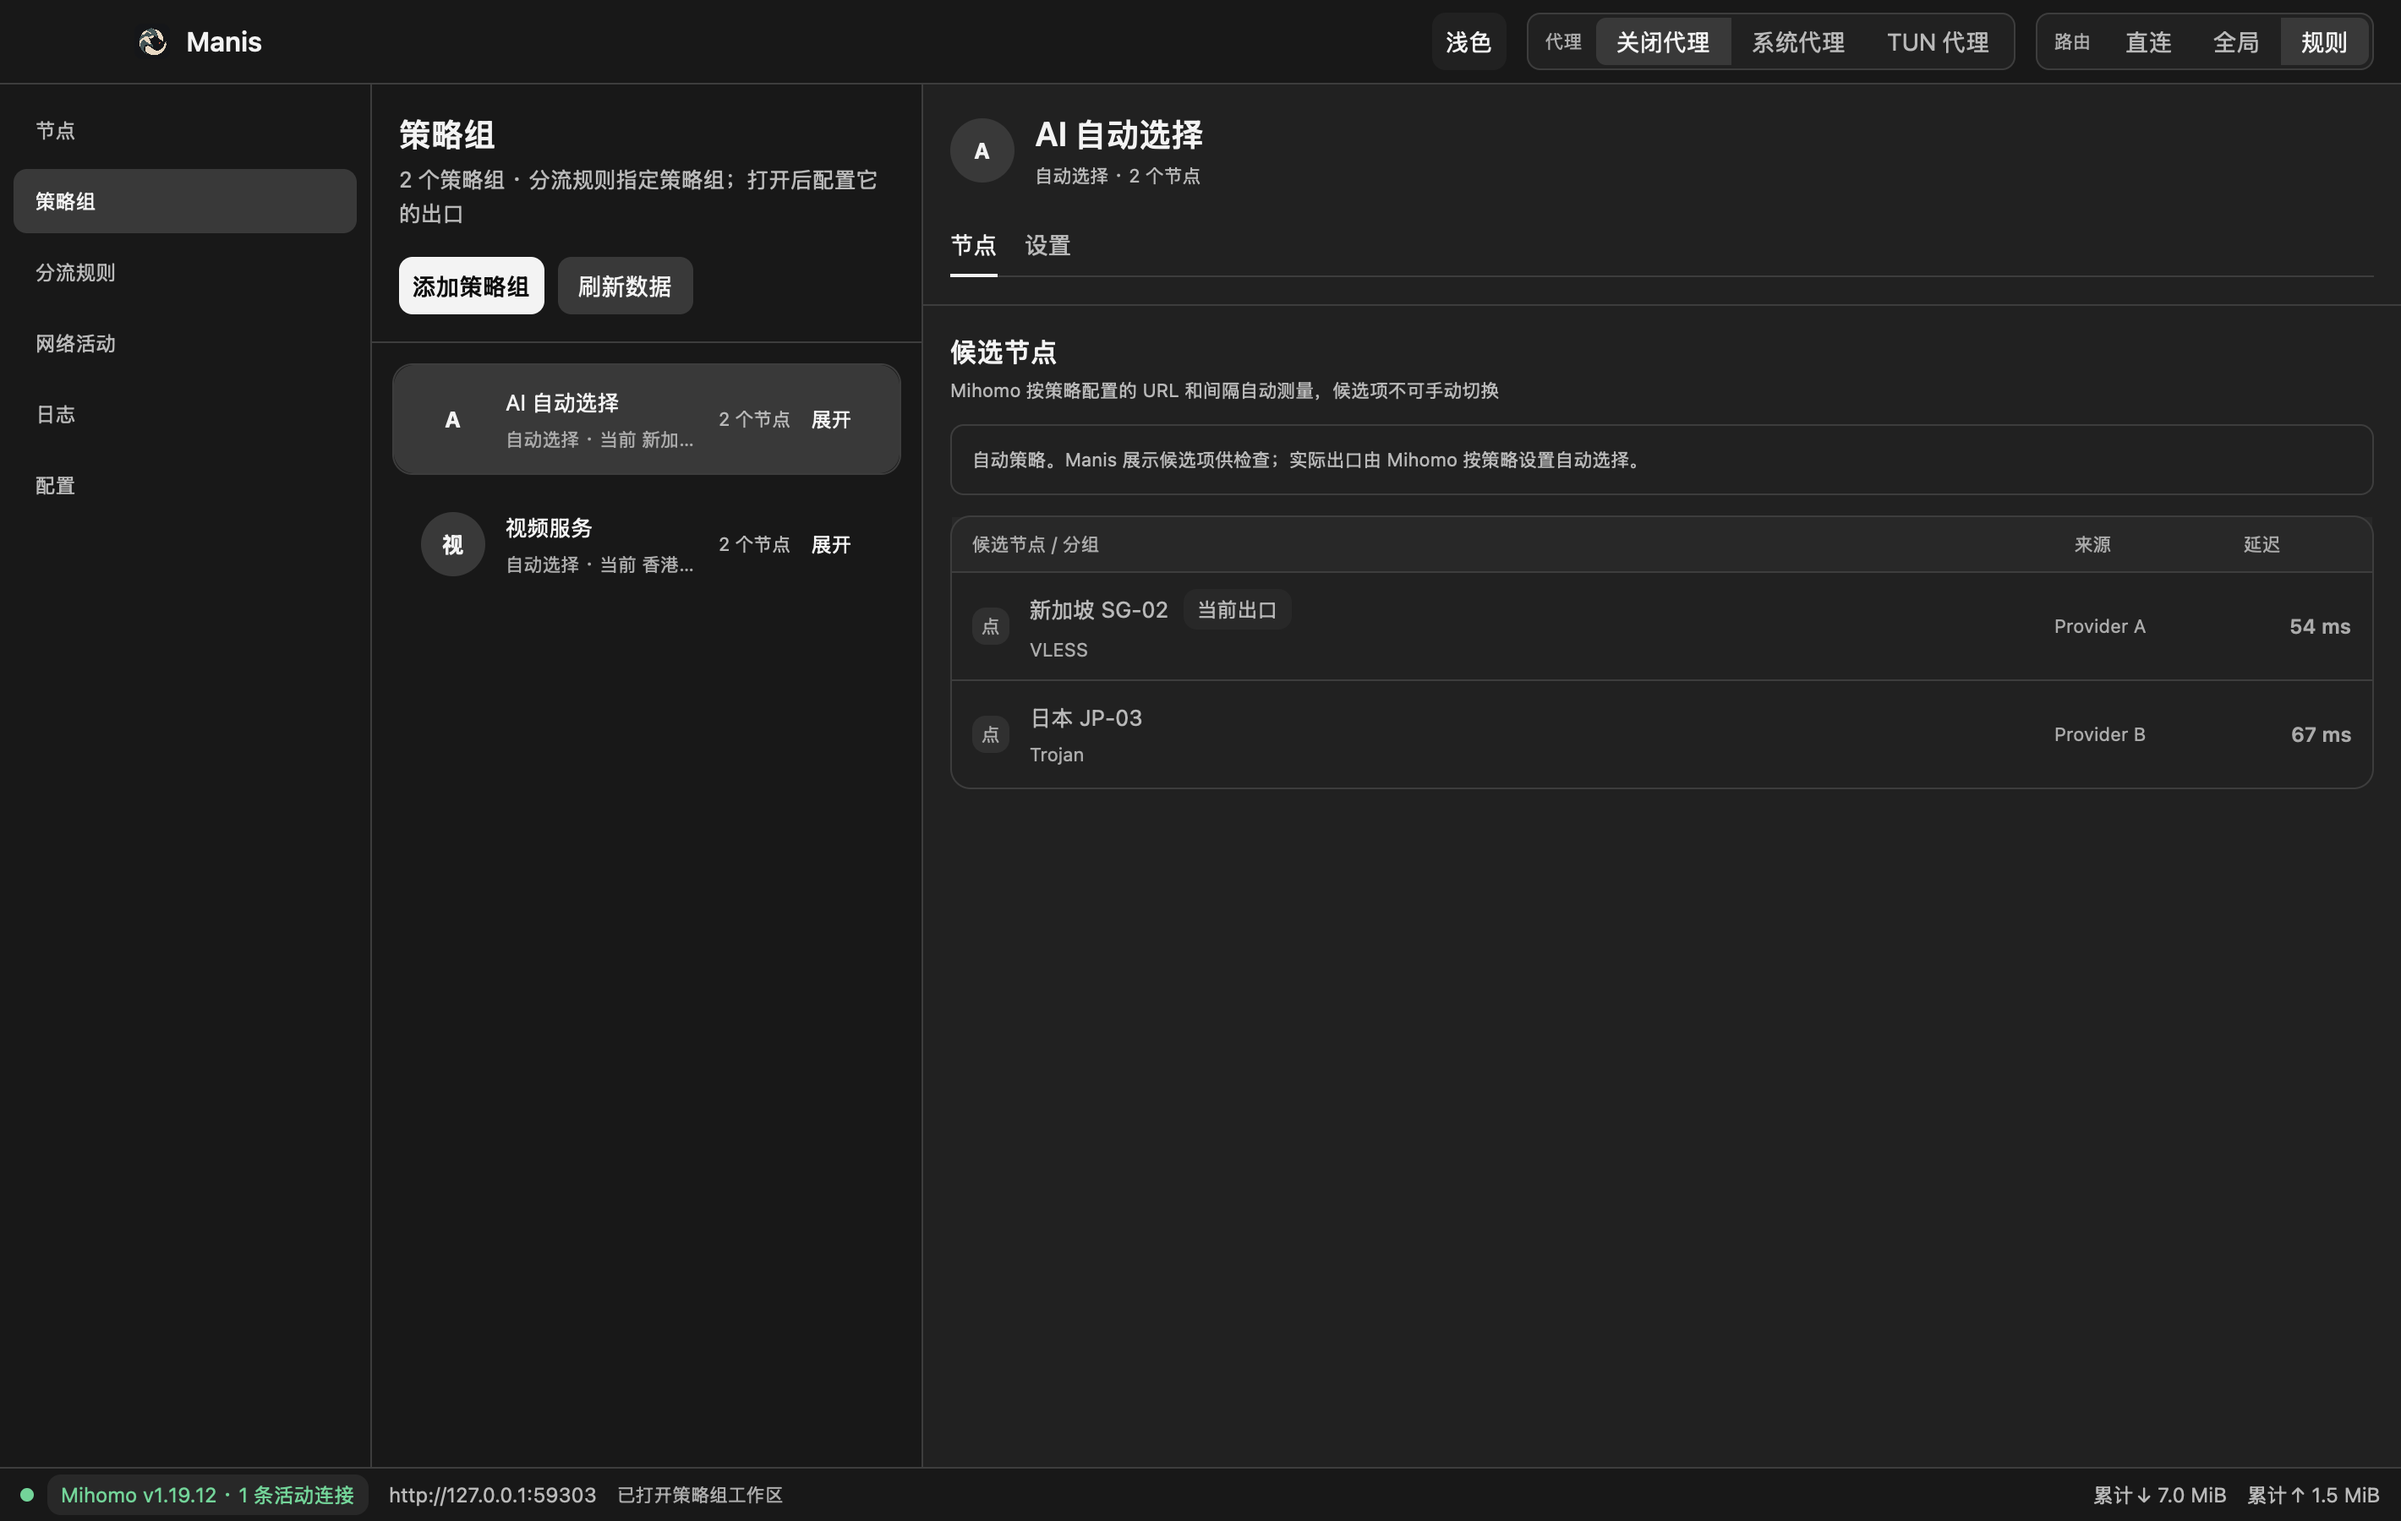
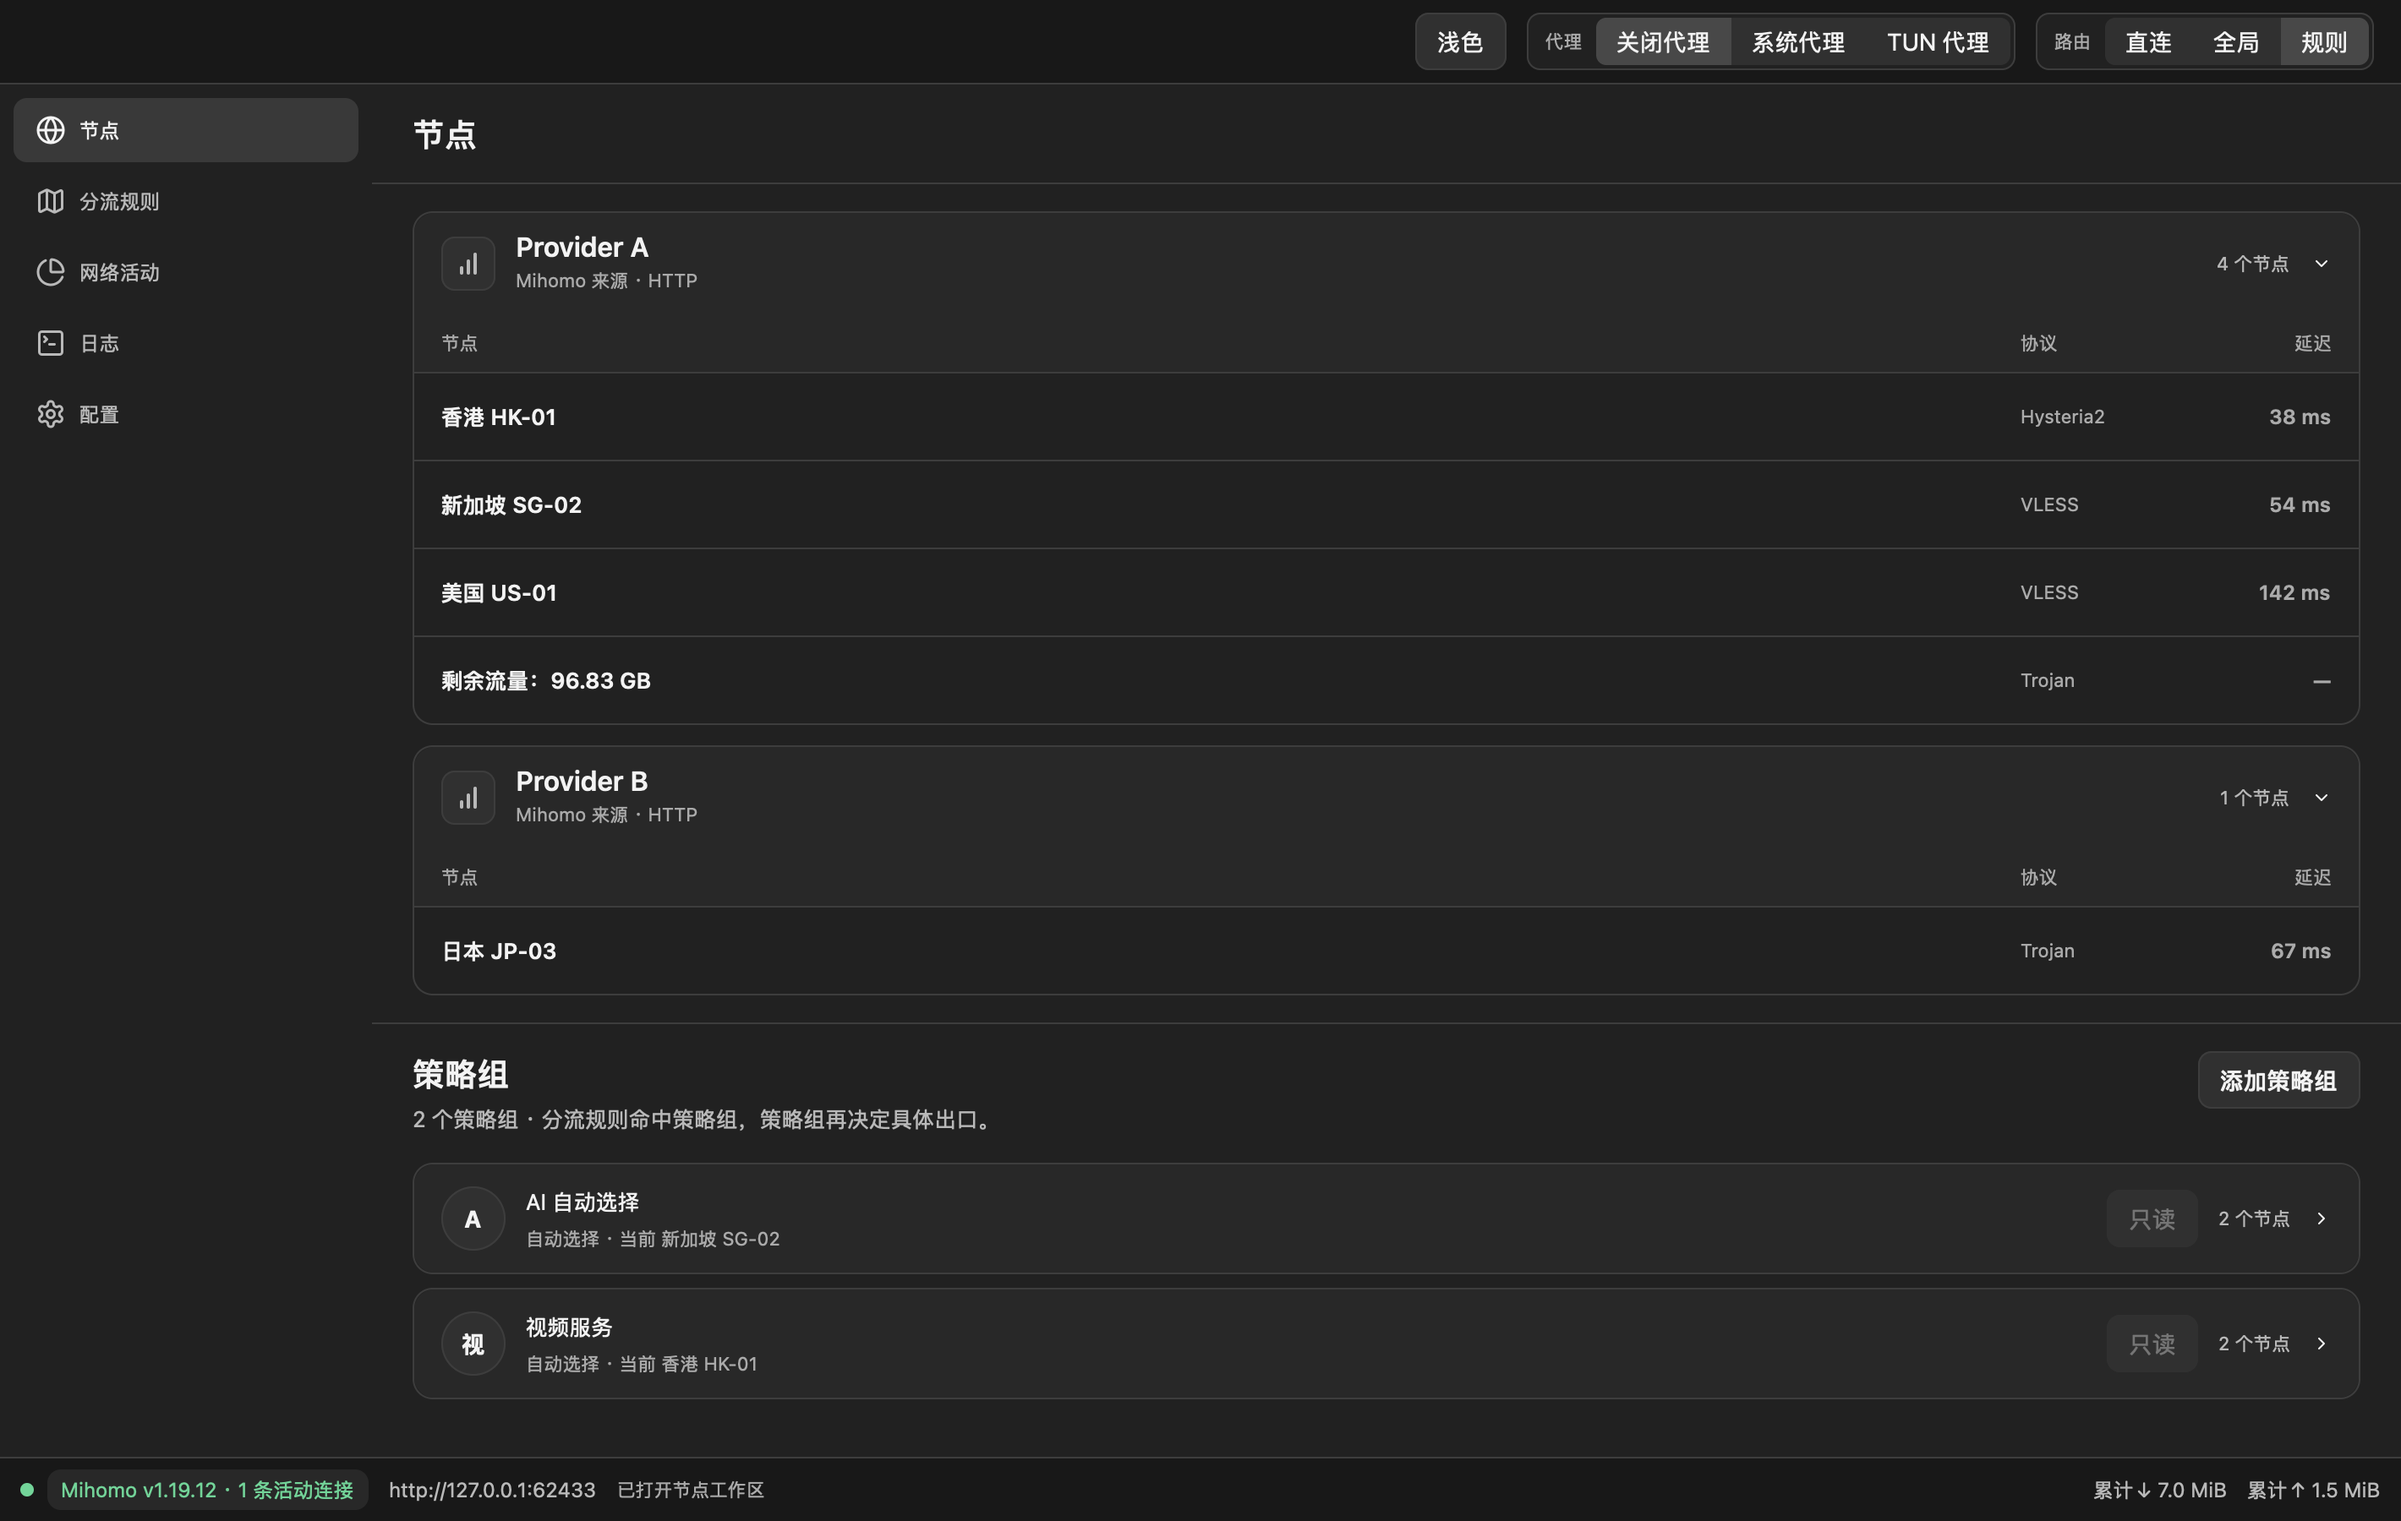
fix(macos): simplify chrome and Mihomo asset selection (#69)

diff --git a/packaging/macos/MihomoReleaseVerifier.swift b/packaging/macos/MihomoReleaseVerifier.swift
@@ -24,12 +24,10 @@ enum MihomoReleaseVerifier {
         let expectedNames: [String]
         #if arch(arm64)
             expectedNames = [
-                "mihomo-darwin-arm64-go122-\(tag).gz",
                 "mihomo-darwin-arm64-\(tag).gz",
             ]
         #elseif arch(x86_64)
             expectedNames = [
-                "mihomo-darwin-amd64-v2-go122-\(tag).gz",
                 "mihomo-darwin-amd64-v2-\(tag).gz",
             ]
         #else

diff --git a/crates/manis-ui/src/app/policy_workspace/chrome.rs b/crates/manis-ui/src/app/policy_workspace/chrome.rs
@@ -43,24 +43,27 @@ impl ManisApp {
             .flex_shrink_0()
             .flex()
             .items_center()
-            .gap(Space::Sm.px())
-            .child(
-                div()
-                    .size(ControlSize::Icon.min_pointer_target() - Space::Sm.px())
-                    .flex_shrink_0()
-                    .rounded(Radius::Control.px() - px(2.0))
-                    .overflow_hidden()
-                    .child(img(assets::BRAND_MARK_PATH).size_full()),
-            )
-            .when(!compact, |brand| {
-                brand.child(
-                    div()
-                        .text_size(TextRole::SectionTitle.size())
-                        .line_height(TextRole::SectionTitle.line_height())
-                        .font_weight(TextRole::SectionTitle.weight())
-                        .text_color(theme.text_primary)
-                        .child(brand::PRODUCT_NAME),
-                )
+            .when(!cfg!(target_os = "macos"), |brand| {
+                brand
+                    .gap(Space::Sm.px())
+                    .child(
+                        div()
+                            .size(ControlSize::Icon.min_pointer_target() - Space::Sm.px())
+                            .flex_shrink_0()
+                            .rounded(Radius::Control.px() - px(2.0))
+                            .overflow_hidden()
+                            .child(img(assets::BRAND_MARK_PATH).size_full()),
+                    )
+                    .when(!compact, |brand| {
+                        brand.child(
+                            div()
+                                .text_size(TextRole::SectionTitle.size())
+                                .line_height(TextRole::SectionTitle.line_height())
+                                .font_weight(TextRole::SectionTitle.weight())
+                                .text_color(theme.text_primary)
+                                .child(brand::PRODUCT_NAME),
+                        )
+                    })
             })
     }
 

diff --git a/crates/manis-ui/src/core_update.rs b/crates/manis-ui/src/core_update.rs
@@ -298,6 +298,48 @@ mod tests {
     }
 
     #[test]
+    fn ignores_go_version_specific_macos_assets() {
+        let release = r#"{
+            "tag_name": "v1.19.30",
+            "prerelease": false,
+            "assets": [
+                {
+                    "name": "mihomo-darwin-arm64-go122-v1.19.30.gz",
+                    "browser_download_url": "https://example.test/darwin-go122.gz",
+                    "digest": "sha256:aaaaaaaaaaaaaaaaaaaaaaaaaaaaaaaaaaaaaaaaaaaaaaaaaaaaaaaaaaaaaaaa"
+                },
+                {
+                    "name": "mihomo-darwin-arm64-v1.19.30.gz",
+                    "browser_download_url": "https://example.test/darwin.gz",
+                    "digest": "sha256:bbbbbbbbbbbbbbbbbbbbbbbbbbbbbbbbbbbbbbbbbbbbbbbbbbbbbbbbbbbbbbbb"
+                }
+            ]
+        }"#;
+
+        let asset = select_release_asset(release, Platform::MacosArm64).expect("select asset");
+
+        assert_eq!(asset.name, "mihomo-darwin-arm64-v1.19.30.gz");
+    }
+
+    #[test]
+    fn rejects_release_with_only_go_version_specific_asset() {
+        let release = r#"{
+            "tag_name": "v1.19.30",
+            "prerelease": false,
+            "assets": [{
+                "name": "mihomo-darwin-arm64-go122-v1.19.30.gz",
+                "browser_download_url": "https://example.test/darwin-go122.gz",
+                "digest": "sha256:aaaaaaaaaaaaaaaaaaaaaaaaaaaaaaaaaaaaaaaaaaaaaaaaaaaaaaaaaaaaaaaa"
+            }]
+        }"#;
+
+        assert_eq!(
+            select_release_asset(release, Platform::MacosArm64),
+            Err(CoreUpdateError::MissingAsset)
+        );
+    }
+
+    #[test]
     fn rejects_release_asset_without_sha256_digest() {
         let release = r#"{
             "tag_name": "v1.19.30",

diff --git a/crates/manis-ui/src/core_update/release.rs b/crates/manis-ui/src/core_update/release.rs
@@ -48,6 +48,7 @@ pub(super) fn asset_priority(name: &str, platform: Platform) -> Option<usize> {
     let name = name.to_ascii_lowercase();
     if name.contains("alpha")
         || name.contains("compatible")
+        || name.contains("-go")
         || name.ends_with(".sha256")
         || ArchiveKind::from_asset_name(&name).is_none()
     {
@@ -63,8 +64,8 @@ pub(super) fn asset_priority(name: &str, platform: Platform) -> Option<usize> {
 impl Platform {
     fn preferred_asset_markers(self) -> &'static [&'static str] {
         match self {
-            Self::MacosArm64 => &["mihomo-darwin-arm64-go122", "mihomo-darwin-arm64"],
-            Self::MacosX64 => &["mihomo-darwin-amd64-v2-go122", "mihomo-darwin-amd64-v2"],
+            Self::MacosArm64 => &["mihomo-darwin-arm64"],
+            Self::MacosX64 => &["mihomo-darwin-amd64-v2"],
             Self::LinuxX64 => &["mihomo-linux-amd64-v2", "mihomo-linux-amd64"],
             Self::WindowsX64 => &["mihomo-windows-amd64-v2", "mihomo-windows-amd64"],
         }

diff --git a/crates/manis-ui/src/app/policy_workspace.rs b/crates/manis-ui/src/app/policy_workspace.rs
@@ -36,7 +36,7 @@ pub(in crate::app) use model::{
 fn platform_chrome_left_padding() -> gpui::Pixels {
     if cfg!(target_os = "macos") {
         // A transparent macOS title bar extends application content underneath the traffic
-        // lights. Reserve their native control area before rendering the Manis brand.
+        // lights. Reserve their native control area before rendering application chrome.
         px(78.0)
     } else {
         Space::Lg.px()
